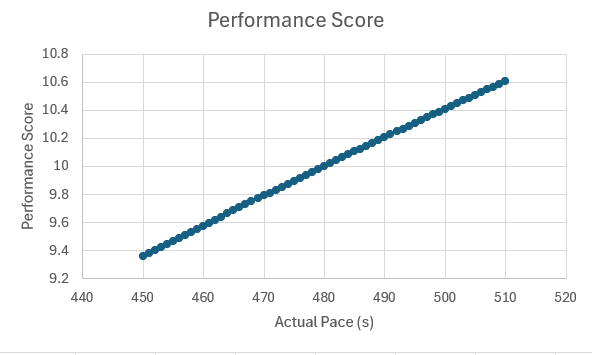
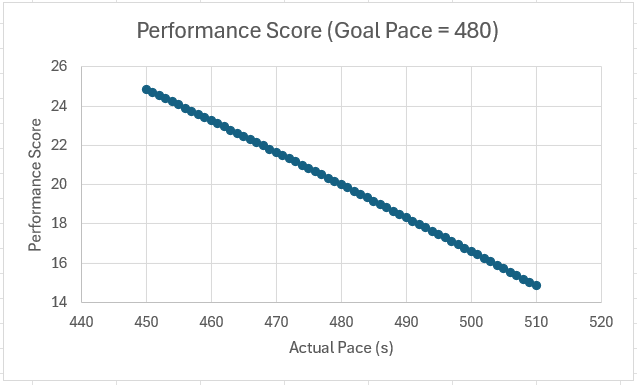
Updated model and photo

diff --git a/README.md b/README.md
@@ -6,16 +6,16 @@ Personal project with the goal to create a scoring system for the Texas Independ
 The performance score ($P$) is calculated using the following equation:
 
 $$
-P = D * (w_{s}S + w_{a}A )
+P = D * (w_{s}S - w_{a}A )
 $$
 
 where
 
 $$
 \begin{align*}
-    \text{Speed Score}\qquad S = \frac{\text{Goal Time}}{\text{Actual Time}} \\
-\text{Pace Adherence} \qquad A = \left[1 - \left(\frac{\left|{\text{Actual Pace - Goal Pace}}\right|}{\text{Goal Pace}}\right)^2 + \left(\frac{\left|{\text{Actual Pace - Goal Pace}}\right|}{\text{Goal Pace}}\right)\right]\\
-\text{Difficulty Score}\qquad D = \left(1 - \frac{\text{Rank - 1}}{36 - 1}\right) \times 10
+    \text{Speed Score}\qquad S = \frac{\text{Actual Time}}{\text{Goal Time}} \\
+\text{Pace Adherence} \qquad A = \left(\frac{{\text{Actual Pace - Goal Pace}}}{\text{Goal Pace}}\right)^2 + \frac{{\text{Actual Pace - Goal Pace}}}{\text{Goal Pace}} \\
+\text{Difficulty Score}\qquad D = 100 - \left(\left(\text{Rank} - 1\right)\times\frac{8}{7}\right)
 \end{align*}
 $$
 
